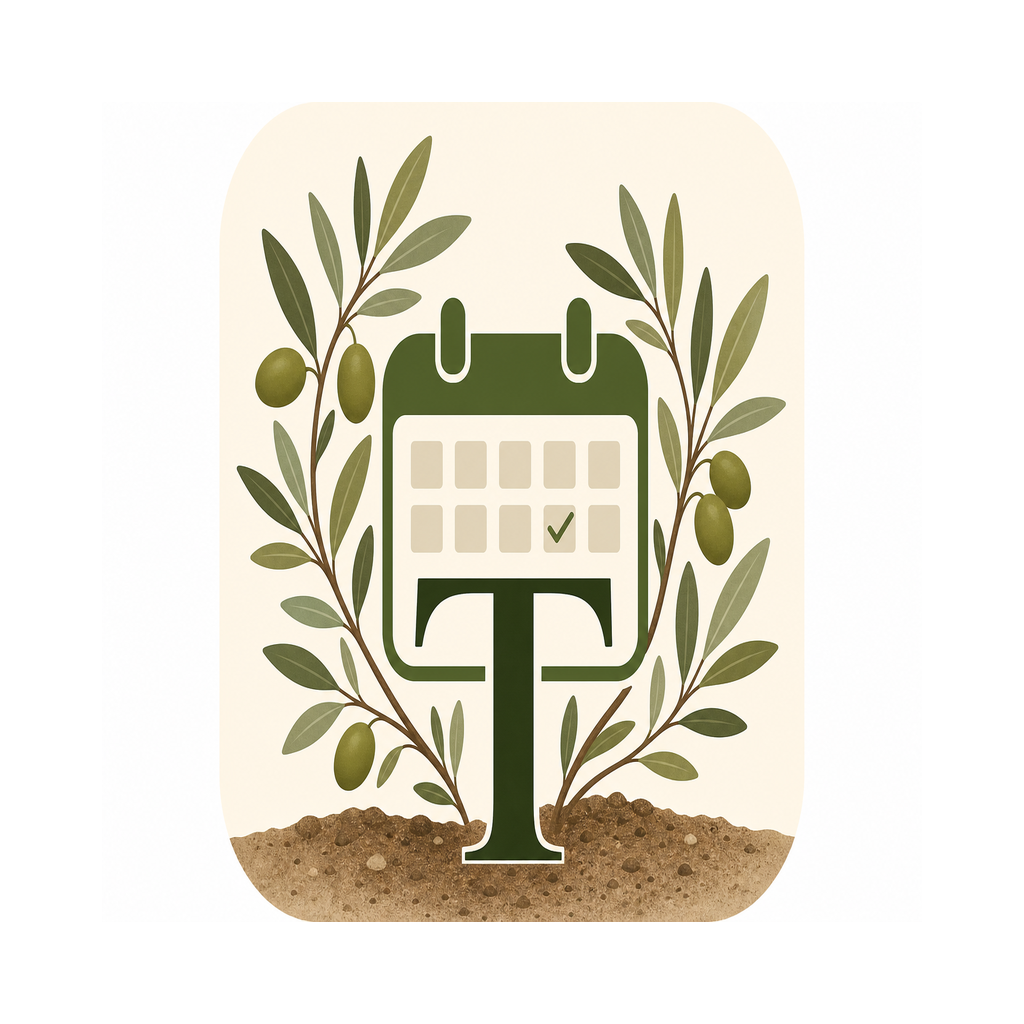
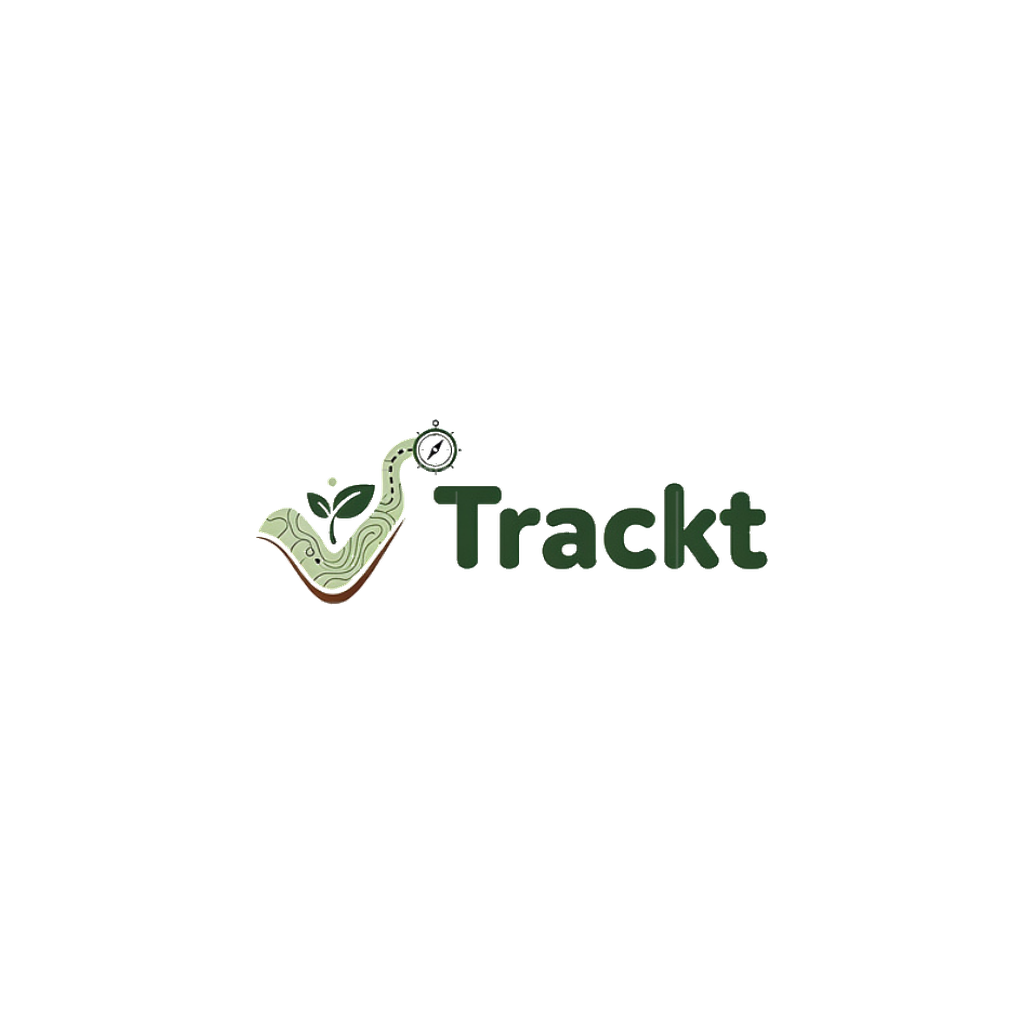
eas build

diff --git a/frontend/src/components/InsightsSection.js b/frontend/src/components/InsightsSection.js
@@ -2502,14 +2502,20 @@ function GeneralInsights({ insights, trackerId }) {
             const str = corr.strength != null ? Math.abs(corr.strength) : Math.abs(corr.correlation ?? 0);
             const strPct = Math.round(str * 100);
             const barColor = strPct >= 60 ? colors.primary : strPct >= 35 ? colors.warning : colors.textLight;
+            const arityLabel = corr.arity || (corr.type === "triple" ? "3-way" : corr.scope === "within_field" ? "same-field" : "2-way");
+            const arityColor = arityLabel === "3-way" ? colors.primary : arityLabel === "same-field" ? colors.textSecondary : colors.warning;
+            const extraOutcomes = Array.isArray(corr.outcomes) && corr.outcomes.length > 1 ? corr.outcomes.slice(1) : [];
             return (
               <View key={i} style={[s.corrItem, i > 0 && s.corrItemBorder]}>
-                {corr.scope === "within_field" ? (
-                  <View style={{ marginBottom: 4 }}>
-                    <Badge label="Same field" color={colors.textSecondary} />
-                  </View>
-                ) : null}
+                <View style={{ flexDirection: "row", flexWrap: "wrap", gap: 6, marginBottom: 6 }}>
+                  <Badge label={arityLabel} color={arityColor} />
+                </View>
                 <Text style={s.corrText}>{formatInsightText(corr.insight || "")}</Text>
+                {extraOutcomes.map((o, j) => (
+                  <Text key={j} style={[s.corrText, { marginTop: 3, color: colors.textSecondary }]}>
+                    {"  also: "}{formatInsightText(`${o.field} → '${o.value}'`)}
+                  </Text>
+                ))}
                 <View style={s.corrMeta}>
                   <View style={s.corrBarWrap}>
                     <ProgressBar value={strPct} max={100} color={barColor} h={5} />
@@ -3196,12 +3202,20 @@ function PeriodFieldInsights({ insights, trackerId, cycleHistory }) {
             const str    = corr.strength != null ? Math.abs(corr.strength) : Math.abs(corr.correlation ?? 0);
             const strPct = Math.round(str * 100);
             const barColor = strPct >= 60 ? colors.primary : strPct >= 35 ? colors.warning : colors.textLight;
+            const arityLabel = corr.arity || (corr.type === "triple" ? "3-way" : corr.scope === "within_field" ? "same-field" : "2-way");
+            const arityColor = arityLabel === "3-way" ? colors.primary : arityLabel === "same-field" ? colors.textSecondary : colors.warning;
+            const extraOutcomes = Array.isArray(corr.outcomes) && corr.outcomes.length > 1 ? corr.outcomes.slice(1) : [];
             return (
               <View key={i} style={[s.corrItem, i > 0 && s.corrItemBorder]}>
-                {corr.scope === "within_field" ? (
-                  <View style={{ marginBottom: 4 }}><Badge label="Same field" color={colors.textSecondary} /></View>
-                ) : null}
+                <View style={{ flexDirection: "row", flexWrap: "wrap", gap: 6, marginBottom: 6 }}>
+                  <Badge label={arityLabel} color={arityColor} />
+                </View>
                 <Text style={s.corrText}>{formatInsightText(corr.insight || "")}</Text>
+                {extraOutcomes.map((o, j) => (
+                  <Text key={j} style={[s.corrText, { marginTop: 3, color: colors.textSecondary }]}>
+                    {"  also: "}{formatInsightText(`${o.field} → '${o.value}'`)}
+                  </Text>
+                ))}
                 <View style={s.corrMeta}>
                   <View style={s.corrBarWrap}><ProgressBar value={strPct} max={100} color={barColor} h={5} /></View>
                   <Text style={[s.corrStrength, { color: barColor }]}>{strPct}%</Text>

diff --git a/frontend/app.config.js b/frontend/app.config.js
@@ -7,9 +7,9 @@ export default {
     version: "1.0.0",
     orientation: "portrait",
     userInterfaceStyle: "light",
-    icon: "./assets/icon.png",
+    icon: "./assets/icon2.png",
     splash: {
-      image: "./assets/splash.png",
+      image: "./assets/splash2.png",
       resizeMode: "contain",
       backgroundColor: "#ffffff"
     },
@@ -25,7 +25,7 @@ export default {
       package: "com.israe.trackt",
       versionCode: 1,
       adaptiveIcon: {
-        foregroundImage: "./assets/adaptive-icon.png",
+        foregroundImage: "./assets/adaptive-icon2.png",
         backgroundColor: "#ffffff"
       }
     },
@@ -35,7 +35,10 @@ export default {
     scheme: "trackt",
     extra: {
       computerIp: process.env.COMPUTER_IP,
-      productionApiUrl: process.env.PRODUCTION_API_URL
+      productionApiUrl: process.env.PRODUCTION_API_URL,
+      eas: {
+        projectId: "a828ff6e-0c1c-42d9-b737-cccf2712d981"
+      }
     }
   }
 };

diff --git a/backend/app/services/correlation_service.py b/backend/app/services/correlation_service.py
@@ -138,8 +138,21 @@ class CorrelationService:
         )
         all_correlations.extend(within_corrs)
         
+        # Merge triple correlations that share the same predictor pair so the same
+        # cause (A+B) is only counted once even when it predicts multiple outcomes.
+        all_correlations = CorrelationService._group_triple_correlations(all_correlations)
+
+        # Stamp each correlation with a human-readable arity label used by the UI.
+        for c in all_correlations:
+            if c.get('type') == 'triple':
+                c['arity'] = '3-way'
+            elif c.get('scope') == 'within_field':
+                c['arity'] = 'same-field'
+            else:
+                c['arity'] = '2-way'
+
         CorrelationService._sort_correlation_results(all_correlations)
-        
+
         # Return only top 3 most meaningful correlations
         top_correlations = all_correlations[:3]
         cross_field_count = sum(1 for c in all_correlations if c.get('scope') == 'cross_field')
@@ -1009,6 +1022,79 @@ class CorrelationService:
             ),
             reverse=True
         )
+
+    @staticmethod
+    def _group_triple_correlations(correlations: List[Dict[str, Any]]) -> List[Dict[str, Any]]:
+        """
+        Merge triple correlations that share the same predictor pair so we don't
+        waste slots on repetitions like:
+            A=x AND B=y → C=z
+            A=x AND B=y → D=w   ← same cause, different outcome
+        These become a single entry:
+            A=x AND B=y → C=z AND D=w
+
+        Non-triple correlations are returned unchanged.
+        """
+        grouped: Dict[tuple, Dict[str, Any]] = {}
+        non_triples: List[Dict[str, Any]] = []
+
+        for c in correlations:
+            if c.get('type') != 'triple':
+                non_triples.append(c)
+                continue
+
+            key = (
+                c.get('predictor1'), c.get('predictor1_value'),
+                c.get('predictor2'), c.get('predictor2_value'),
+            )
+
+            if key not in grouped:
+                entry = dict(c)
+                entry['outcomes'] = [{
+                    'field': c.get('outcome'),
+                    'value': c.get('outcome_value'),
+                    'count': c.get('observation_count', 0),
+                }]
+                grouped[key] = entry
+            else:
+                existing = grouped[key]
+                seen_fields = {o['field'] for o in existing['outcomes']}
+                if c.get('outcome') not in seen_fields:
+                    existing['outcomes'].append({
+                        'field': c.get('outcome'),
+                        'value': c.get('outcome_value'),
+                        'count': c.get('observation_count', 0),
+                    })
+                existing['observation_count'] = max(
+                    existing.get('observation_count', 0),
+                    c.get('observation_count', 0),
+                )
+                existing['strength'] = max(
+                    existing.get('strength', 0),
+                    c.get('strength', 0),
+                )
+
+        # Rebuild human-readable insight for each merged group
+        merged_triples: List[Dict[str, Any]] = []
+        for (pred1, pred1_val, pred2, pred2_val), entry in grouped.items():
+            outcomes = entry['outcomes']
+            count = entry['observation_count']
+            if len(outcomes) == 1:
+                o = outcomes[0]
+                entry['insight'] = (
+                    f"When {pred1} is '{pred1_val}' AND {pred2} is '{pred2_val}', "
+                    f"{o['field']} is typically '{o['value']}' ({count} times)"
+                )
+            else:
+                parts = [f"{o['field']} \u2192 '{o['value']}'" for o in outcomes]
+                entry['insight'] = (
+                    f"When {pred1} is '{pred1_val}' AND {pred2} is '{pred2_val}': "
+                    + ", ".join(parts)
+                    + f" ({count} times)"
+                )
+            merged_triples.append(entry)
+
+        return merged_triples + non_triples
 
     @staticmethod
     def _group_fields_by_parent(fields: List[str]) -> Dict[str, List[str]]: